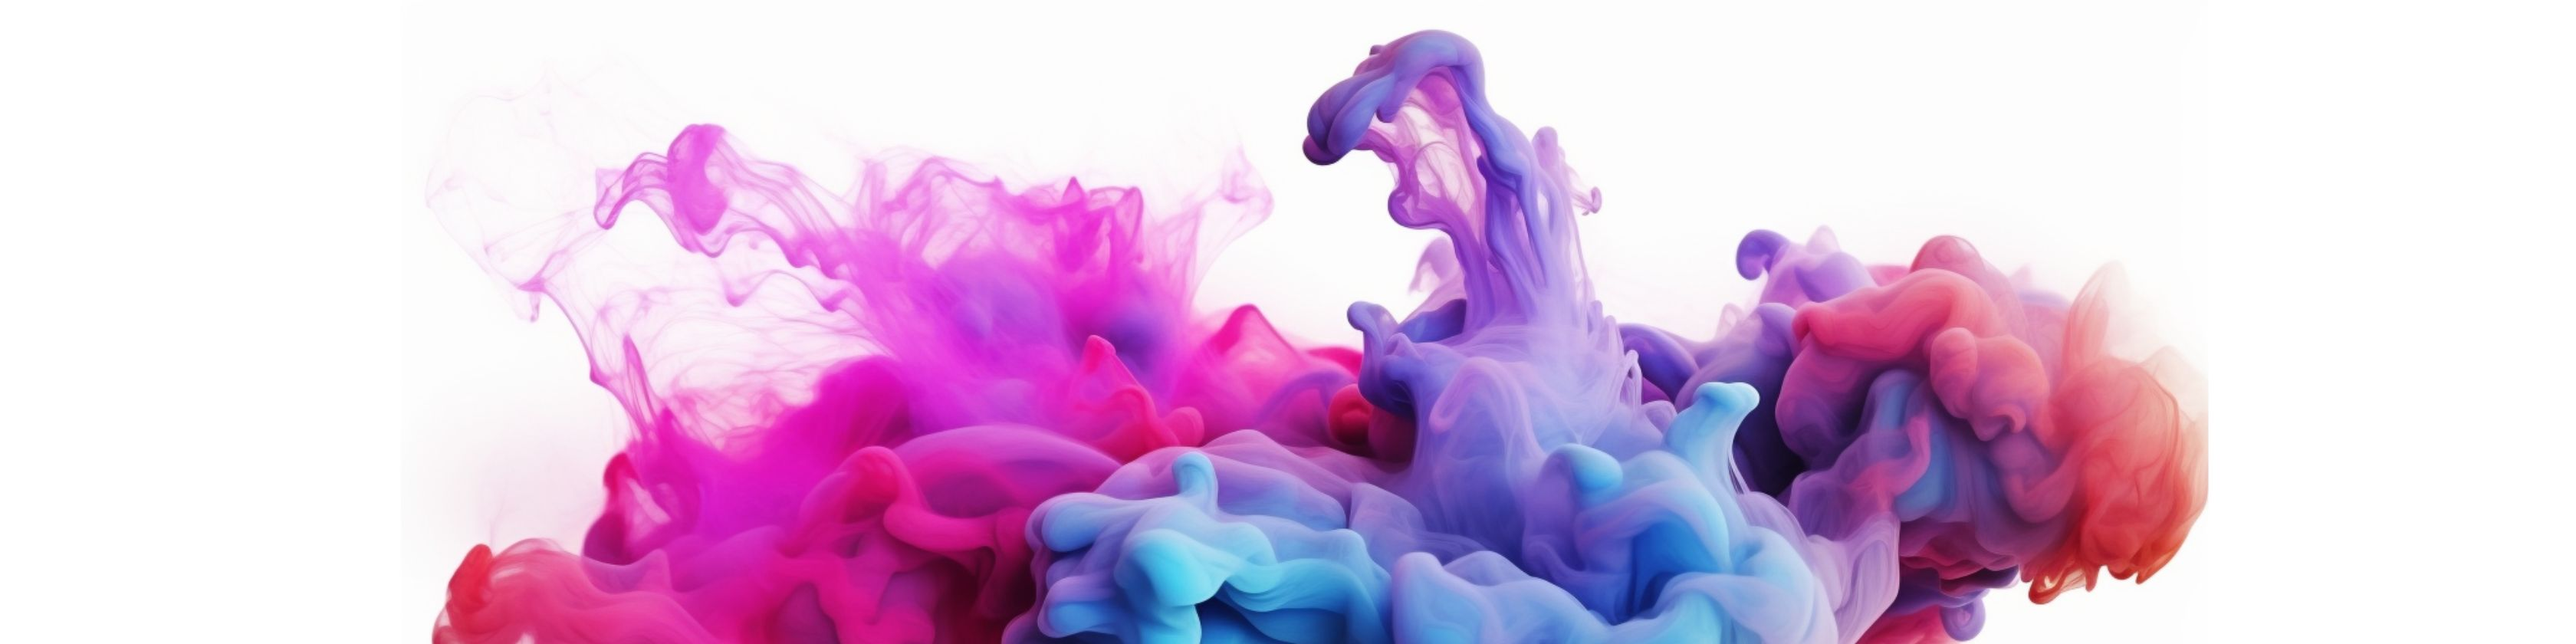
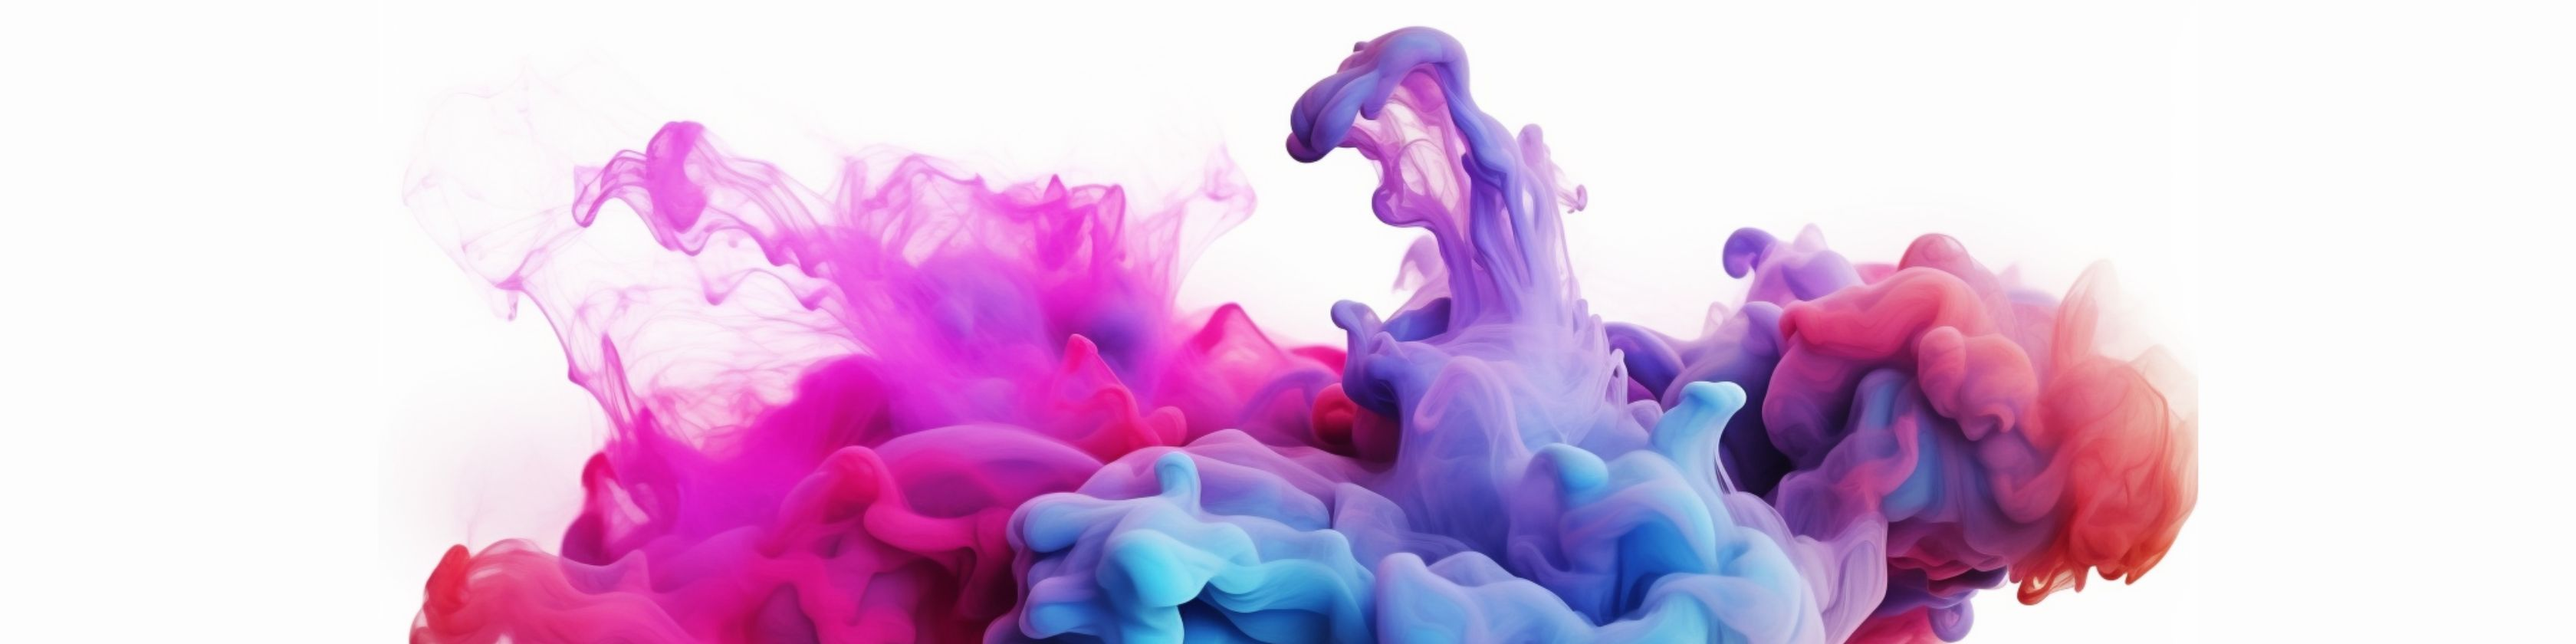
feat: :lipstick: Add footer

Changed region(s): [[0.1562, 0.031, 0.875, 1.0]]

diff --git a/index.html b/index.html
@@ -13,7 +13,7 @@
 
 		<title>Sublime Pixels</title>
 	</head>
-	<body>
+	<body class="container">
 		<header class="hero">
 			<div class="hero__info">
 				<h1 class="hero__keyword">Tumbler Design</h1>
@@ -28,7 +28,31 @@
 
 			<span></span>
 		</header>
-		<div id="root"></div>
+
+		<div id="root" class="app"></div>
+
+		<footer class="footer">
+			<div class="footer__sections">
+				<div class="footer__logo">
+					<img src="./public/img/sublimePixelsLogo.png" alt="Sublime pixels logo" />
+				</div>
+
+				<div class="footer__links">
+					<a href="" target="_blank">Link 1</a>
+					<a href="" target="_blank">Link 2</a>
+					<a href="" target="_blank">Link 3</a>
+				</div>
+
+				<div class="footer__links">
+					<a href="https://sublimepixels.etsy.com/" target="_blank">Etsy Shop</a>
+					<a href="">Terms & conditions</a>
+					<a href="">Privacy Policy</a>
+				</div>
+			</div>
+
+			<div class="footer__copy">COPYRIGHT© 2023 Sublime Pixels</div>
+		</footer>
+
 		<script type="module" src="/src/main.tsx"></script>
 	</body>
 </html>

diff --git a/src/scss/site/_footer.scss b/src/scss/site/_footer.scss
@@ -1,0 +1,44 @@
+@use "../base/variables" as v;
+@use "../base/mixins" as m;
+
+.footer {
+	background-color: v.$gray;
+	color: v.$white;
+	width: 100%;
+	// height: 30rem;
+	margin-top: 6rem;
+	position: absolute;
+	left: 0;
+	padding: 6rem 4rem;
+
+	&__sections {
+		@include m.grid(1, 2rem);
+
+		@include m.tablet {
+			@include m.grid(3, 8rem);
+		}
+	}
+
+	&__logo {
+		// max-width: ;
+		padding: 0 4rem;
+	}
+
+	&__links {
+		padding: 0 4rem;
+	}
+
+	&__links a {
+		display: flex;
+		flex-direction: column;
+		padding: 0.5rem;
+		text-decoration: none;
+		color: v.$white;
+	}
+
+	&__copy {
+		display: flex;
+		justify-content: center;
+		margin-top: 4rem;
+	}
+}

diff --git a/src/scss/site/_hero.scss b/src/scss/site/_hero.scss
@@ -4,18 +4,16 @@
 .hero {
 	@include m.fadeIn(2000ms);
 
-	width: 95%;
-	margin: 1rem auto;
-	padding: 2rem;
+	margin-top: 4rem;
+	padding: 4rem 0;
 	border-radius: 1rem;
 	background-image: url(./img/sublimePixelsBanner.jpg);
 	background-repeat: no-repeat;
 	background-size: cover;
-	background-position-x: -10vw;
+	background-position-x: -20vw;
 	position: relative;
 
 	@include m.tablet {
-		margin: 1rem;
 		width: auto;
 		min-height: 20rem;
 		background-position-x: 30vw;
@@ -43,6 +41,7 @@
 	// }
 
 	&__info {
+		// background-color: v.$background;
 		@include m.desktop {
 			padding: 4rem;
 		}

diff --git a/src/scss/site/_batch.scss b/src/scss/site/_batch.scss
@@ -1,18 +1,19 @@
 @use "../base/mixins" as m;
 
 .batch {
-	padding: 2rem;
-	@include m.grid(1, 2rem);
+	margin-top: 4rem;
+
+	@include m.grid(1, 4rem);
 
 	@include m.tablet {
-		@include m.grid(2, 2rem);
+		@include m.grid(2, 4rem);
 	}
 
 	@include m.desktop {
-		@include m.grid(4, 2rem);
+		@include m.grid(3, 6rem);
 	}
 
 	@include m.monitor {
-		@include m.grid(6, 2rem);
+		@include m.grid(5, 6rem);
 	}
 }

diff --git a/src/scss/base/_globals.scss b/src/scss/base/_globals.scss
@@ -2,7 +2,7 @@
 @use "mixins" as m;
 
 #root {
-	height: 100vh;
+	height: auto;
 }
 
 ::-webkit-scrollbar {
@@ -47,8 +47,9 @@ p {
 .container {
 	width: 100%;
 	margin: 0 auto;
-	padding: 0 2rem;
+	padding: 0 1rem;
 	overflow-y: scroll;
+	background-color: v.$background;
 
 	@include m.desktop {
 		padding: 0 4rem;

diff --git a/src/scss/site/_index.scss b/src/scss/site/_index.scss
@@ -1,5 +1,6 @@
 @forward "appContainer";
 @forward "header";
 @forward "hero";
+@forward "footer";
 @forward "item";
 @forward "batch";
